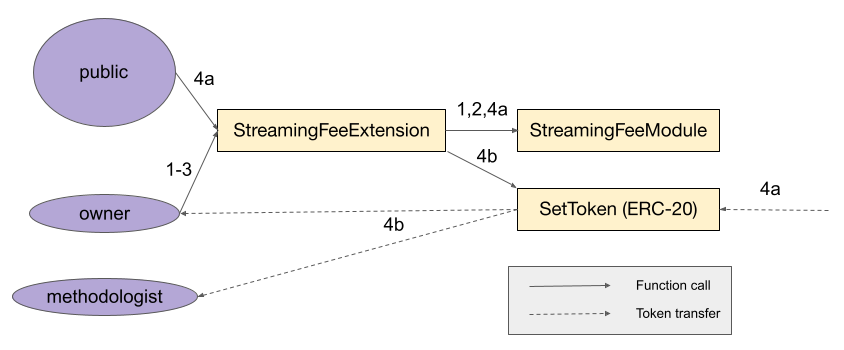
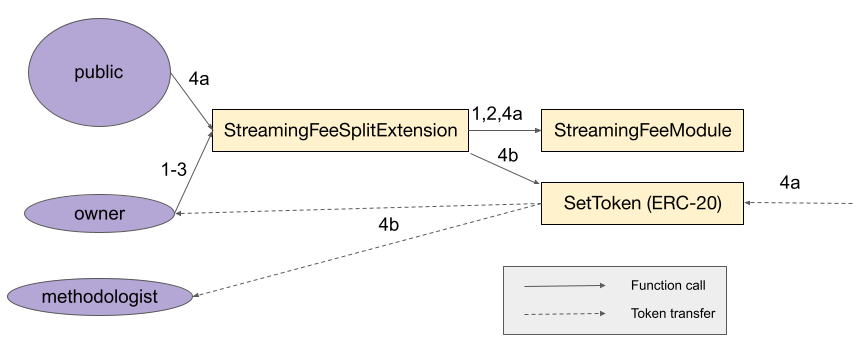
address comments

diff --git a/STIPS/STIP-009.md b/STIPS/STIP-009.md
@@ -76,11 +76,11 @@ The recommended solution deploys single-use, modular manager contracts from a ma
 
 **ManagerFactory**: Factory smart contract which provides asset managers the ability to `create` new Set Tokens with a BaseManagerV3 manager, `migrate` existing Set Tokens to a BaseManagerV3 manager, and `initialize` modules and enable extensions.
 
-**BaseManagerV3**: Manager smart contract which provides asset managers three permissioned roles (`owner`, `methodologist`, `operator`) and asset whitelist functionality. The `owner` grants permissions to `operator`(s) to interact with specific extensions. The `owner` can restrict the `operator`(s) permissions with an asset whitelist.
+**BaseManagerV3**: Manager smart contract which provides asset managers three permissioned roles (`owner`, `methodologist`, `operator`) and asset whitelist functionality. The `owner` grants permissions to `operator`(s) to interact with extensions. The `owner` can restrict the `operator`(s) permissions with an asset whitelist.
 
 **BasicIssuanceExtension**: Global extension which provides users with the ability to `issue` and `redeem` Set Tokens with a smart contract manager.
 
-**StreamingFeeExtension**: Global extension which provides the `owner` and `methodologist` the ability to accrue and split streaming fees at an mutable percentage.
+**StreamingFeeSplitExtension**: Global extension which provides the `owner` and `methodologist` the ability to accrue and split streaming fees at an mutable percentage.
 
 **TradeExtension**: Global extension which provides privileged `operator`(s) the ability to `trade` on a DEX and the `owner` the ability to restrict `operator`(s) permissions with an asset whitelist.
 
@@ -96,20 +96,21 @@ The recommended solution deploys single-use, modular manager contracts from a ma
 **BaseManagerV3**
 
 - Allow `owner` to add and remove global `operator` permissions on extensions
-- Allow `owner` to limit `operator` functionality on extensions with an asset whitelist
+- Allow `owner` to limit `operator`(s) functionality on extensions with an asset whitelist
 - Allow `owner` to update asset whitelist
 - Allow `owner` to perform Set Token admin functions such as `addModule`, `removeModule`, and `setManager`
 
 **BasicIssuanceExtension**
 
 - Allow `owner` to enable functionality of BasicIssuanceModule with only a state change and no contract deployment
-- Allow `operator`(s) to initialize the BasicIssuanceModule
+- Allow `owner` to initialize the BasicIssuanceModule
 - Allow users to `issue` and `redeem` the Set Token
+- Allow Set Token to accrue `issue` and `redeem` fees
 
-**StreamingFeeExtension**
+**StreamingFeeSplitExtension**
 
 - Allow `owner` to enable functionality of StreamingFeeModule with only a state change and no contract deployment
-- Allow `operator`(s) to initialize the StreamingFeeModule
+- Allow `owner` to initialize the StreamingFeeModule
 - Allow `owner` and `methodologist` to split streaming fees
 - Allow `owner` to update the streaming fee
 - Allow `owner` to update the streaming fee split
@@ -118,7 +119,7 @@ The recommended solution deploys single-use, modular manager contracts from a ma
 **TradeExtension**
 
 - Allow `owner` to enable functionality of TradeModule with only a state change and no contract deployment
-- Allow `operator`(s) to initialize the TradeModule
+- Allow `owner` to initialize the TradeModule
 - Allow privileged `operator`(s) to perform trades on a DEX
 - Allow `owner` to restrict assets the privileged `operator`(s) can trade into with an asset whitelist
 
@@ -139,12 +140,13 @@ An `owner` wants to create a new Set Token with a BaseManagerV3 smart contract m
     - owner: The address of the `owner`
     - methodologist: The address of the `methodologist`
     - operators: List of addresses of the `operator`(s)
+    - modules: List of addresses of modules to be enabled
     - assets: List of addresses of assets for initial asset whitelist
     - extensions: List of addresses of global extensions to be enabled
 
 2. A Set Token is deployed using SetTokenCreator
 3. A BaseManagerV3 is deployed with the ManagerFactory as the temporary `owner` until after initialization
-4. Initialization parameters for the Set Token are stored on the Factory
+4. The `owner` and `msg.sender` for the Set Token are stored on the Factory and BaseManagerV3
 5. The Set Token and Manager are put in pending state on the Factory
 
 ### ManagerFactory.migrate()
@@ -162,7 +164,7 @@ An `owner` wants to migrate an existing Set Token to a BaseManagerV3 smart contr
     - extensions: List of addresses of global extensions to be enabled
 
 2. A BaseManagerV3 is deployed with the ManagerFactory as the temporary `owner` until after initialization
-3. Initialization parameters for the Set Token are stored on the Factory
+3. The `owner` and `msg.sender` for the Set Token are stored on the Factory and BaseManagerV3
 4. The Set Token and Manager are put in pending state on the Factory
 
 ### ManagerFactory.initialize()
